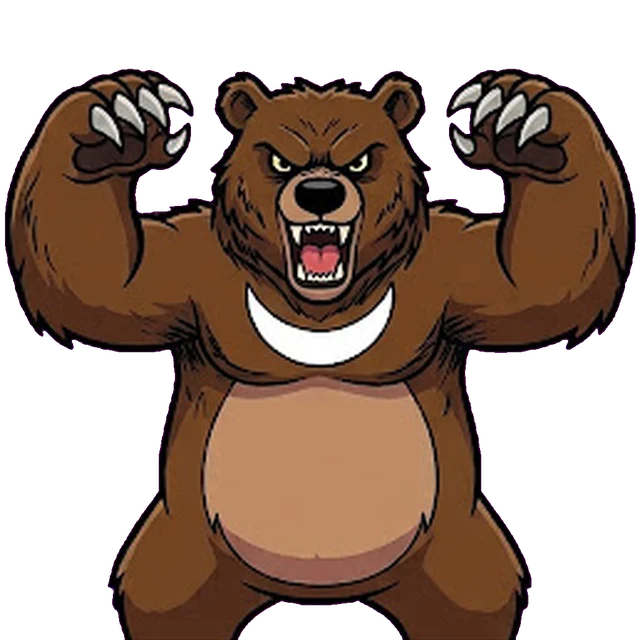
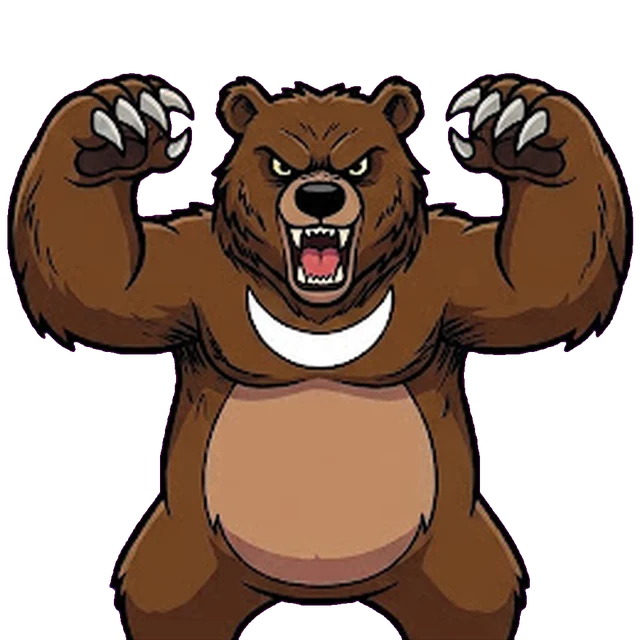
4番目の敵を画像の「ドラゴン」にする
- ドラゴンのシートを切り抜いて追加（攻撃は火を吐く絵）
- 敵ごとに表示の倍率（size）を指定できるようにする
- 切り分けの道具：ポーズごとに足もとを下端にそろえ、全ポーズを同じ縮尺で出力する

Claude-Session: https://claude.ai/code/session_01NWj6yqhZcxqM9Qz5TGCr1w

diff --git a/public/index.html b/public/index.html
@@ -165,6 +165,7 @@ button, summary { font-family: var(--font-body); }
   object-position: center bottom;
 }
 .enemy.has-img svg { display: none; }
+.enemy img { transform: scale(var(--size, 1)); transform-origin: 50% 100%; }
 .enemy.has-img img { display: block; }
 .enemy.has-img.fallback-hit img { filter: brightness(1.25) saturate(1.3); }
 
@@ -766,6 +767,7 @@ button, summary { font-family: var(--font-body); }
     { name: 'しんじんボクサー', img: 'weak-boxer',     shirt: '#ff8a3d', hair: '#2b2140', skin: '#f6c9a0' },
     { name: 'ゾンビ軍団', img: ['zombie', 'zombie-f', 'zombie-fat'], group: true, shirt: '#8e5bff', hair: '#7a1220', skin: '#e9b48a' },
     { name: 'ヒグマ', img: 'brown-bear',   shirt: '#1fb37a', hair: '#14110f', skin: '#f2d3b3' },
+    { name: 'ドラゴン', img: 'dragon', size: 1.4, shirt: '#ff8a3d', hair: '#2b2140', skin: '#f6c9a0' },   // size：絵の中で小さく描かれたキャラを大きく見せる倍率
   ];
   const R = (a, b) => Array.from({ length: b - a + 1 }, (_, i) => a + i);
   // モードごとに出てくる数（段にも、かける数にも使う）。10は出さない
@@ -1000,6 +1002,7 @@ button, summary { font-family: var(--font-body); }
     $('hair').setAttribute('fill', e.hair);
     document.querySelectorAll('.skin').forEach(n => n.setAttribute('fill', e.skin));
     arts = artsOf(e); art = arts[0] || null;
+    enemy.style.setProperty('--size', e.size || 1);
     arts.forEach(a => Object.values(a).forEach(u => { new Image().src = u; }));   // 先に読んでおく
     enemy.classList.toggle('has-img', !!(images.idle || art));
     groupMode = !!(e.group && art);        // 集団：問題の数だけ並べて、1問で1体たおす

diff --git a/tools/cut-enemy-sheet.py b/tools/cut-enemy-sheet.py
@@ -82,12 +82,17 @@ for i, name in enumerate(NAMES):
 # then put each on a square canvas, bottom-centered.
 top = min(int(np.where(b.any(1))[0].min()) for _, _, b in cut)
 top = max(0, top - 8)
+ready = []
 for name, rgba, body in cut:
-    rgba = rgba[top:]
-    ph, pw = rgba.shape[:2]
+    bottom = int(np.where(body.any(1))[0].max()) + 1       # stand each pose on the canvas floor (some sheets leave a gap below)
+    rgba, body = rgba[top:bottom], body[top:bottom]
     xs_ = np.where(body.any(0))[0]
     cx = (int(xs_.min()) + int(xs_.max())) // 2            # center the character horizontally
-    side = max(ph, 2 * max(cx - int(xs_.min()), int(xs_.max()) - cx) + 16)
+    need = max(rgba.shape[0], 2 * max(cx - int(xs_.min()), int(xs_.max()) - cx) + 16)
+    ready.append((name, rgba, cx, need))
+side = max(r[3] for r in ready)                            # one canvas size for all poses = same scale in the game
+for name, rgba, cx, _ in ready:
+    ph, pw = rgba.shape[:2]
     canvas = Image.new('RGBA', (side, side), (0, 0, 0, 0))
     canvas.paste(Image.fromarray(rgba, 'RGBA'), (side // 2 - cx, side - ph))
     canvas = canvas.resize((SIZE, SIZE), Image.LANCZOS)

diff --git a/docs/enemy-art.md b/docs/enemy-art.md
@@ -80,7 +80,7 @@
 | ファイル名 | キャラ | 攻撃 |
 |---|---|---|
 | `robot` | 戦うロボット。角ばった青と銀の体、胸にメーター、アンテナ、目は黄色く光るライト。KOでは目のライトが消えて、頭から煙が出る。 | こちらに向かってロケットパンチを発射している。飛んでくる腕が手前にとても大きく見える。 |
-| `dragon` | 二本足で立つ赤いドラゴン。小さな翼、2本の角、太いしっぽ、金色の目。 | こちらに向かって口を大きく開け、火を吐いている。炎が手前に大きく広がっている。 |
+| `dragon` ✅ | 二本足で立つ赤いドラゴン。小さな翼、2本の角、太いしっぽ、金色の目。 | こちらに向かって口を大きく開け、火を吐いている。炎が手前に大きく広がっている。 |
 
 ✅ はゲームに入っているキャラです。
 
@@ -111,6 +111,8 @@ public/img/enemies/<名前>/attack.webp  攻撃
 - 細い線（集中線）と、キャラクターから離れた飾り（星、汗、文字）は取りのぞきます。**キャラクターにくっついた飾り（ほおの横の火花など）は残ります。**
 - つめ・アンテナ・ひげなど、キャラクターにくっついた細い部分を残したいときは `--keep-thin` を付けます（背景に集中線がないシート向け）。付けないと、細いものは集中線とみなして取りのぞきます。
 - 小さいシート（幅1600px未満）は、切り口がなめらかになるよう拡大してから処理します。**ただし絵そのものはぼやけるので、シートは2000px前後で作るのがおすすめです。**
+- ポーズごとに、足もとを画像の下端にそろえます（体の下にすき間があるシートでも、ゲームで浮いて見えないように）。
+- 絵の中でキャラクターが小さく描かれている場合は、敵の一覧に `size: 1.4` のように倍率を書くと、ゲームで大きく表示できます。
 - 4ポーズは同じ縮尺のまま出力します。ポーズごとにキャラクターの大きさが違うシートは、ゲームでも大きさが違って見えます。
 
 ## 注意
